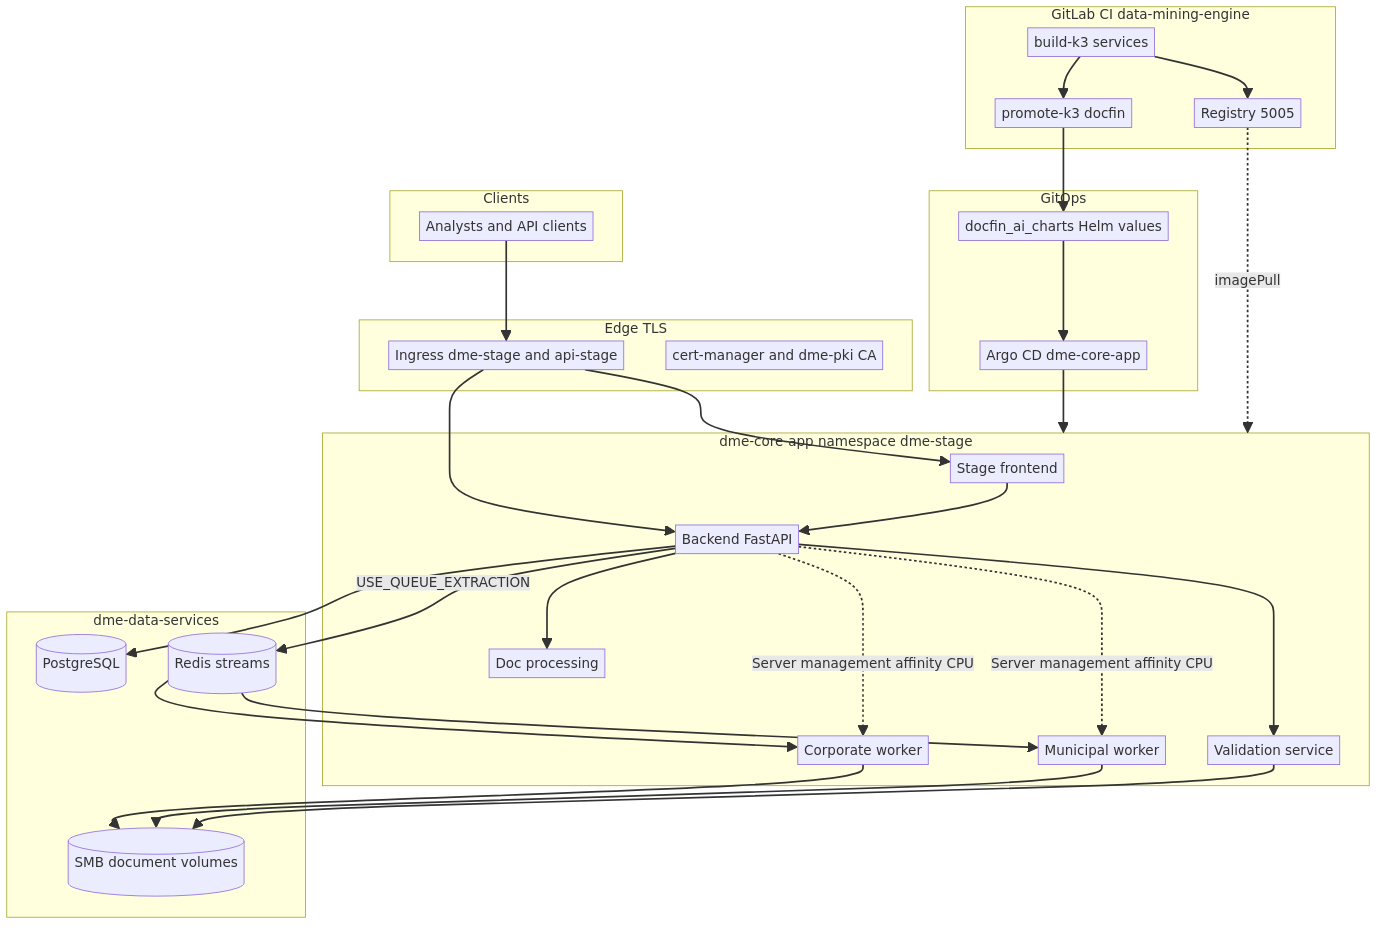
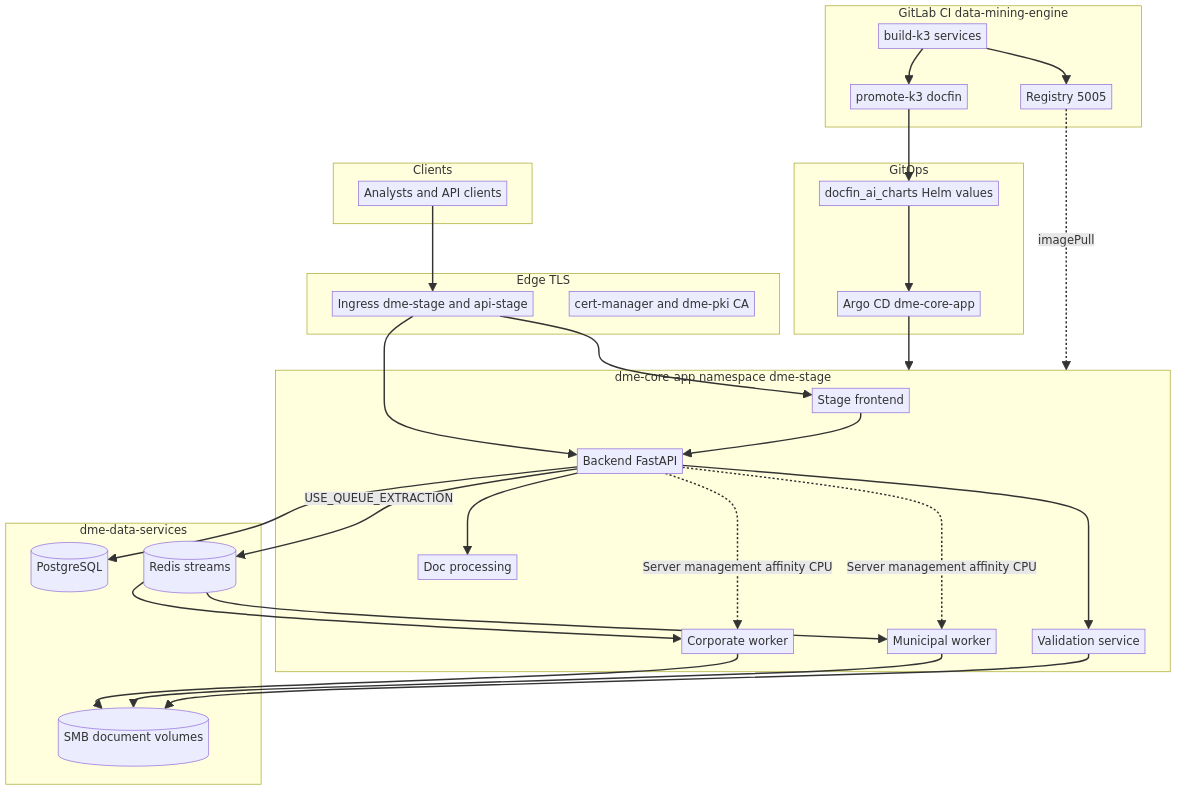
feat(portfolio): architecture flow diagrams in Projects section
Add full-stack, GitOps, runtime, dispatch, request-path, and cluster-ops
diagrams to featured DME on index; PNG sources and case study flow grid.

diff --git a/assets/css/portfolio-enhance.css b/assets/css/portfolio-enhance.css
@@ -234,6 +234,120 @@ body.dark-theme .arch-details {
   padding: 0.5rem 0;
 }
 
+/* Case study — architecture & flow diagrams */
+.flow-section {
+  margin-bottom: 3rem;
+}
+
+.flow-section__intro {
+  text-align: left;
+  color: var(--text-color);
+  line-height: 1.65;
+  margin-bottom: 1.5rem;
+  max-width: 900px;
+}
+
+.flow-grid {
+  display: grid;
+  grid-template-columns: 1fr;
+  gap: 1.5rem;
+}
+
+@media screen and (min-width: 768px) {
+  .flow-grid {
+    grid-template-columns: repeat(2, 1fr);
+  }
+}
+
+.flow-card {
+  margin: 0;
+  background: var(--container-color);
+  border: 1px solid hsl(var(--hue-color), 12%, 88%);
+  border-radius: 12px;
+  padding: 1rem;
+  text-align: center;
+}
+
+body.dark-theme .flow-card {
+  border-color: hsl(var(--hue-color), 12%, 28%);
+}
+
+.flow-card--wide {
+  grid-column: 1 / -1;
+}
+
+.flow-card img {
+  width: 100%;
+  max-height: 520px;
+  object-fit: contain;
+  cursor: zoom-in;
+}
+
+.flow-card figcaption {
+  font-size: var(--small-font-size);
+  color: var(--text-color);
+  line-height: 1.5;
+  margin-top: 0.75rem;
+  text-align: left;
+}
+
+.flow-card figcaption strong {
+  color: var(--title-color);
+  display: block;
+  margin-bottom: 0.25rem;
+}
+
+.flow-jump {
+  display: inline-block;
+  margin-top: 0.5rem;
+  font-size: var(--small-font-size);
+  color: var(--first-color);
+  font-weight: var(--font-medium);
+}
+
+/* Index.html — featured project flows (compact) */
+.project-flows {
+  margin: 1.5rem 0 1rem;
+  padding-top: 1.25rem;
+  border-top: 1px solid hsl(var(--hue-color), 12%, 88%);
+}
+
+body.dark-theme .project-flows {
+  border-top-color: hsl(var(--hue-color), 12%, 28%);
+}
+
+.project-flows__title {
+  font-size: var(--h3-font-size);
+  font-family: "DM Sans", var(--body-font), sans-serif;
+  color: var(--title-color);
+  margin: 0 0 0.5rem;
+}
+
+.project-flows__intro {
+  font-size: var(--small-font-size);
+  color: var(--text-color);
+  margin: 0 0 1rem;
+  line-height: 1.5;
+}
+
+.flow-grid--index .flow-card img {
+  max-height: 220px;
+}
+
+@media screen and (min-width: 968px) {
+  .flow-grid--index {
+    grid-template-columns: repeat(3, 1fr);
+  }
+
+  .flow-grid--index .flow-card--wide {
+    grid-column: 1 / -1;
+  }
+
+  .flow-grid--index .flow-card--wide img {
+    max-height: 320px;
+  }
+}
+
 .qualification__note {
   display: block;
   margin-top: 0.35rem;

diff --git a/dme-project.html b/dme-project.html
@@ -195,6 +195,7 @@
                 <p class="case-study-subtitle">
                     Enterprise extraction platform on K3s: FastAPI microservices, Redis-stream jobs, human-in-the-loop validation, and superuser cluster controls. Delivered via GitLab CI image builds, Helm chart promote, and Argo CD sync to stage.
                 </p>
+                <a href="#architecture-flows" class="flow-jump">View architecture &amp; flow diagrams ↓</a>
             </div>
 
             <div class="case-study-tabs-wrap">
@@ -219,6 +220,43 @@
                         <li><strong>Security & Threat Modeling:</strong> Conducted comprehensive SecureCoder threat modeling to map trust boundaries across extraction engines, SMB mounts, and the frontend API, ensuring enterprise-grade security.</li>
                         <li><strong>Domain-Restricted Access:</strong> Custom secure signup flows validating against `@factentry.com` domains natively in Zod and FastAPI.</li>
                     </ul>
+
+                    <section id="architecture-flows" class="flow-section">
+                        <h2 class="section__title">Architecture &amp; system flows</h2>
+                        <p class="flow-section__intro">
+                            End-to-end view of DME on K3s: how users and APIs reach the platform, how jobs are dispatched to workers, how GitOps delivers images, and how operators manage the fleet. Click any diagram to zoom.
+                        </p>
+                        <div class="flow-grid">
+                            <figure class="flow-card flow-card--wide">
+                                <img src="./assets/img/dme/architecture-flow.png" alt="Full stack — clients, ingress, core app, data plane, GitLab CI, Argo CD" class="project-img--ui" loading="lazy">
+                                <figcaption><strong>Full stack (runtime + GitOps)</strong> Edge TLS, <code>dme-core-app</code>, PostgreSQL &amp; Redis, SMB volumes, CI build/promote, Argo sync. Server management patches worker placement at runtime.</figcaption>
+                            </figure>
+                            <figure class="flow-card">
+                                <img src="./assets/img/dme/request-path-flow.png" alt="Browser to backend workers validation and WebSocket" class="project-img--ui" loading="lazy">
+                                <figcaption><strong>Request path</strong> Ingress → frontend/backend → PostgreSQL, live job WebSocket, corporate/muni/docproc. Validation is a separate highlight workflow.</figcaption>
+                            </figure>
+                            <figure class="flow-card">
+                                <img src="./assets/img/dme/runtime-flow.png" alt="Queue mode runtime — Redis to workers and SMB" class="project-img--ui" loading="lazy">
+                                <figcaption><strong>Runtime (queue mode)</strong> Backend publishes to Redis streams; corporate and municipal consumers read bond data from SMB mounts.</figcaption>
+                            </figure>
+                            <figure class="flow-card">
+                                <img src="./assets/img/dme/gitops-flow.png" alt="GitLab CI promote charts Argo CD" class="project-img--ui" loading="lazy">
+                                <figcaption><strong>GitOps / CI/CD</strong> Push or New pipeline → <code>build-k3-*</code> → registry → promote <code>docfin_ai_charts</code> → Argo CD → <code>dme-stage</code>.</figcaption>
+                            </figure>
+                            <figure class="flow-card">
+                                <img src="./assets/img/dme/extraction-dispatch-flow.png" alt="Job dispatch Redis queue vs HTTP fallback" class="project-img--ui" loading="lazy">
+                                <figcaption><strong>Job dispatch</strong> Default: <code>USE_QUEUE_EXTRACTION</code> and Redis streams. Fallback: async HTTP <code>run-direct</code> to worker pods.</figcaption>
+                            </figure>
+                            <figure class="flow-card">
+                                <img src="./assets/img/dme/worker-pipeline-flow.png" alt="Inside worker — stream to extractors to callback" class="project-img--ui" loading="lazy">
+                                <figcaption><strong>Inside a worker pod</strong> Redis message → <code>api_runner</code> → DataMining orchestrator → field extractors → status/callback.</figcaption>
+                            </figure>
+                            <figure class="flow-card">
+                                <img src="./assets/img/dme/cluster-ops-flow.png" alt="Server management UI to Postgres and Kubernetes" class="project-img--ui" loading="lazy">
+                                <figcaption><strong>Cluster operations</strong> <code>/server-potential</code> → nodes API → Postgres allocations → Deployment patches (Argo <code>ignoreDifferences</code> on replicas/affinity).</figcaption>
+                            </figure>
+                        </div>
+                    </section>
 
                     <div class="feature-grid">
                         <div>
@@ -422,6 +460,10 @@
                         <li><strong>docfin_ai_charts</strong> — Helm charts Argo CD syncs (<code>DME/core-app</code>, <code>dme-data-services</code>, …). Image pins live in <code>values.yaml</code>.</li>
                     </ul>
 
+                    <p class="flow-section__intro" style="margin-bottom: 1.5rem;">
+                        All architecture diagrams (full stack, dispatch, worker pipeline, cluster ops) are in the <a href="#architecture-flows" class="flow-jump" onclick="openTab(event, 'overview')">Overview → Architecture &amp; system flows</a> section.
+                    </p>
+
                     <h2 class="section__title">CI/CD → GitOps → K3 (stage)</h2>
                     <p style="text-align: justify; margin-bottom: 1.5rem;">
                         Push or <strong>New pipeline</strong> on <code>k3s-numaflow-migration</code> builds all service images at one commit SHA, promote jobs commit tags to charts Git, then Argo CD rolls <code>dme-stage</code> automatically.
@@ -444,7 +486,7 @@
                     <details class="arch-details">
                         <summary>Full stack diagram (runtime + GitOps)</summary>
                         <div class="flow-diagram" style="text-align: center; margin-top: 1rem;">
-                            <img src="./assets/img/dme/architecture-flow.png" alt="End-to-end DME architecture — clients, ingress, GitOps, workers" class="project-img project-img--ui" loading="lazy" loading="lazy">
+                            <img src="./assets/img/dme/architecture-flow.png" alt="End-to-end DME architecture — clients, ingress, GitOps, workers" class="project-img project-img--ui" loading="lazy">
                             <p class="img-caption">Edge TLS, core app, data plane, GitLab CI, and Argo CD.</p>
                         </div>
                     </details>

diff --git a/index.html b/index.html
@@ -923,7 +923,7 @@
 
             <section class="testimonial section" id="Projects">
                 <h2 class="section__title">Projects</h2>
-                <span class="section__subtitle">My Projects and Works</span>
+                <span class="section__subtitle">Production platforms &amp; research — architecture flows on featured work</span>
         
                 <div class="project-container">
                     <!-- Featured: DME -->
@@ -952,6 +952,38 @@
                                 <li>GitOps delivery: immutable images, Helm chart promote, automated Argo CD sync to stage.</li>
                             </ul>
                         </div>
+
+                        <div class="project-flows">
+                            <h4 class="project-flows__title">Architecture &amp; system flows</h4>
+                            <p class="project-flows__intro">End-to-end K3s platform — click a diagram to enlarge. Full set in the case study.</p>
+                            <div class="flow-grid flow-grid--index">
+                                <figure class="flow-card flow-card--wide">
+                                    <img src="./assets/img/dme/architecture-flow.png" alt="DME full stack — runtime and GitOps" class="project-img--ui" loading="lazy">
+                                    <figcaption><strong>Full stack</strong> Ingress, core app, Redis/Postgres, SMB, GitLab CI → Argo CD</figcaption>
+                                </figure>
+                                <figure class="flow-card">
+                                    <img src="./assets/img/dme/gitops-flow.png" alt="GitLab CI promote Helm Argo sync" class="project-img--ui" loading="lazy">
+                                    <figcaption><strong>GitOps</strong> build-k3 → promote charts → Argo → dme-stage</figcaption>
+                                </figure>
+                                <figure class="flow-card">
+                                    <img src="./assets/img/dme/runtime-flow.png" alt="Redis queue to corporate municipal workers" class="project-img--ui" loading="lazy">
+                                    <figcaption><strong>Runtime</strong> Redis streams → worker pods → SMB corpora</figcaption>
+                                </figure>
+                                <figure class="flow-card">
+                                    <img src="./assets/img/dme/extraction-dispatch-flow.png" alt="Job dispatch queue vs HTTP" class="project-img--ui" loading="lazy">
+                                    <figcaption><strong>Job dispatch</strong> Redis queue (default) or HTTP run-direct fallback</figcaption>
+                                </figure>
+                                <figure class="flow-card">
+                                    <img src="./assets/img/dme/request-path-flow.png" alt="Browser API path WebSocket validation" class="project-img--ui" loading="lazy">
+                                    <figcaption><strong>Request path</strong> Ingress, backend, WebSocket, workers, validation</figcaption>
+                                </figure>
+                                <figure class="flow-card">
+                                    <img src="./assets/img/dme/cluster-ops-flow.png" alt="Server management to Kubernetes" class="project-img--ui" loading="lazy">
+                                    <figcaption><strong>Cluster ops</strong> Server UI → allocations → Deployment patches</figcaption>
+                                </figure>
+                            </div>
+                        </div>
+
                         <div class="project-card__cta">
                             <a href="dme-project.html" class="button button--flex button--small portfolio__button">Read full case study <i class="uil uil-arrow-right button__icon"></i></a>
                         </div>

diff --git a/assets/img/dme/README.md b/assets/img/dme/README.md
@@ -9,8 +9,13 @@ Screenshots for [dme-project.html](../../../dme-project.html) case study.
 | `server-cluster/` | `/server-potential` Fleet, Controls, Argo |
 | `argocd/` | Argo CD application views |
 | `git_build_promote/` | GitLab K3 pipeline (build → promote → deploy) |
-| `architecture-flow.mmd` | Runtime + GitOps mermaid (source) |
-| `gitops-flow.mmd` | CI → charts → Argo mermaid (source) |
+| `architecture-flow.mmd` | Full stack — runtime + GitOps |
+| `gitops-flow.mmd` | CI → charts → Argo |
+| `runtime-flow.mmd` | Queue mode runtime |
+| `request-path-flow.mmd` | Browser → backend → workers |
+| `extraction-dispatch-flow.mmd` | Redis queue vs HTTP fallback |
+| `worker-pipeline-flow.mmd` | Inside worker pod |
+| `cluster-ops-flow.mmd` | Server management → K8s |
 
 **Update pipeline screenshot:** copy from repo  
 `fullstack/docs/images/git_build_promote/git_pipeline.png`  
@@ -21,7 +26,7 @@ Screenshots for [dme-project.html](../../../dme-project.html) case study.
 ```bash
 # from this directory; mmdc from data-mining-engine fullstack/docs (npm install @mermaid-js/mermaid-cli there once)
 MMDC=/path/to/data-mining-engine/fullstack/docs/node_modules/.bin/mmdc
-for f in gitops-flow runtime-flow architecture-flow; do
+for f in architecture-flow gitops-flow runtime-flow request-path-flow extraction-dispatch-flow worker-pipeline-flow cluster-ops-flow; do
   "$MMDC" -i "$f.mmd" -o "$f.png" -b white
 done
 ```